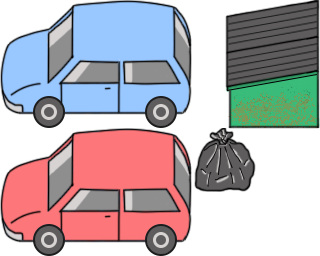
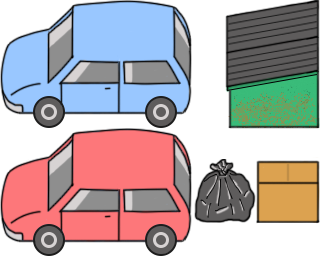
added the top layer

Changed region(s): [[0.5938, 0.5, 1.0, 0.875]]

diff --git a/js/move.js b/js/move.js
@@ -16,18 +16,20 @@ move.prototype = {
 	{
         // draw the map
         map = game.add.tilemap('tile_maps')
+        map.addTilesetImage('CatographerObstacles', 'obstacles');
         map.addTilesetImage('CatographerTiles', 'tiles');
         backgroundLayer = map.createLayer(0)
-
-        // player character
-		player = new Player(20, 20);
-
-        map.addTilesetImage('CatographerObstacles', 'obstacles');
-
 
         obstacleLayer = map.createLayer(1)
         map.setCollisionByExclusion([], true, 1, true);
         obstacleLayer.resizeWorld();
+
+        // player character
+		player = new Player(20, 20);
+
+
+        topLayer = map.createLayer(2)
+
 
         // create
         // wall group
